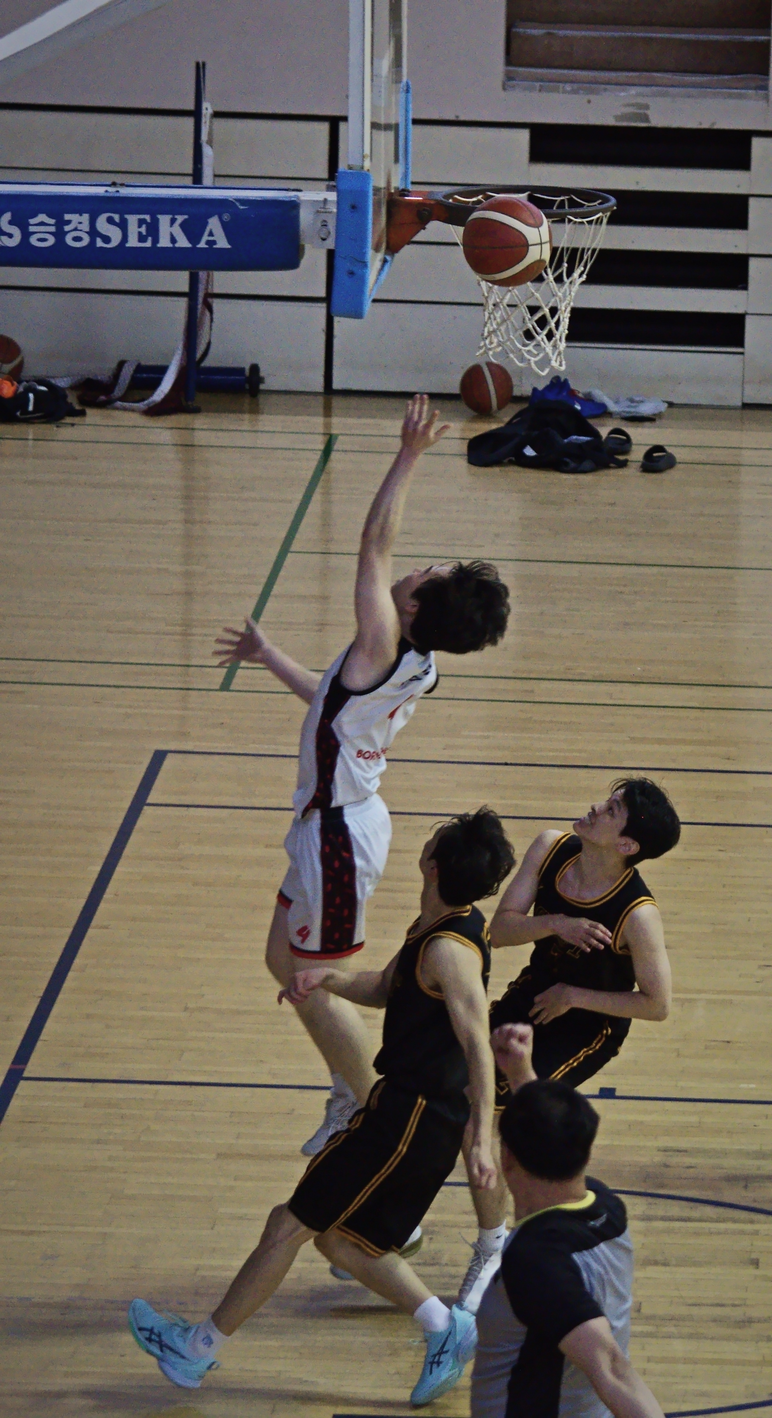
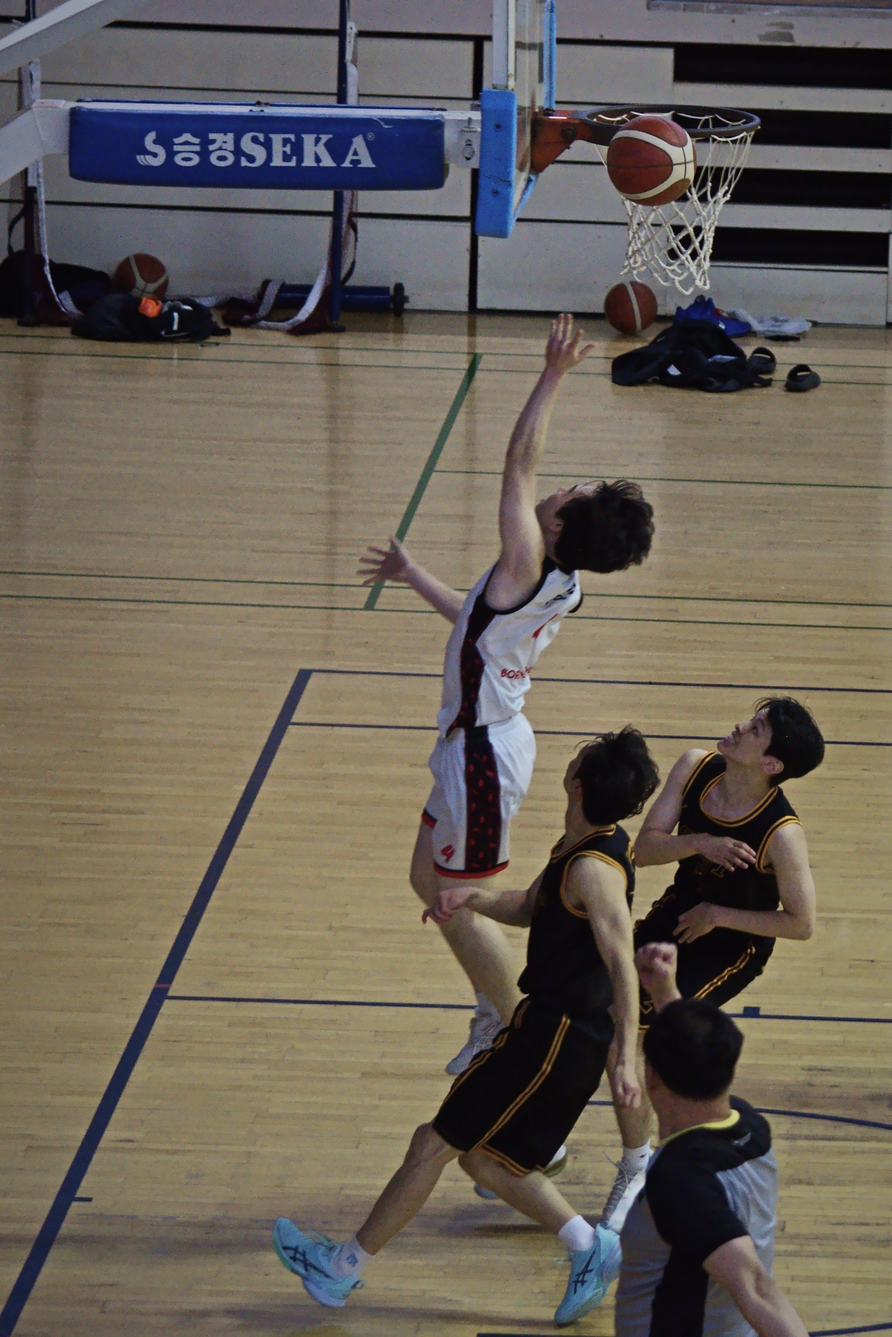
2번(PT1_0021) 재프레이밍 A안 채택: 점프슛 레퍼런스 기반 2:3 세로(가로 9–46%). 4bce7c4 결과와 B안, 레퍼런스 보드·출처 기록
Claude-Session: https://claude.ai/code/session_01UnSELjwGz3pkhwLisvMXDE

diff --git a/docs/disclosure_pipeline.md b/docs/disclosure_pipeline.md
@@ -119,6 +119,7 @@ Claude가 위 밀착 시트 13장(약 254컷)을 보고 보도 가치, 순간성
 - 그 결과로 콘셉트 「차가운 비, 뜨거운 사람들」과 장면별 룩 7종을 정했다(`docs/creative_brief.md`).
 - 크롭은 10% 격자를 얹은 시트(`work/06_crop_grid/`)를 보고 컷별로 정했다(`looks/edits.tsv`). 50컷 중 31컷에 크롭을 적용했다.
 - **크롭 오류와 수정:** AI가 정한 1차 크롭 31개 중 10개에 프레이밍 오류가 있었다. 발·공 잘림(PT2_0246), 다리·팔 잘림, 화면 가장자리 선수의 몸통 절단 같은 문제였다. 기자가 PT2_0246을 지적한 뒤 31개를 전수 점검해 10개를 고쳤다. 점검 시트(`cropaudit_*.jpg`, 빨간 테두리는 1차 크롭)와 수정본(`crop_audit_fixed.jpg`, 초록 테두리)이 같은 폴더에 있고, 수정 사유는 `edits.tsv`의 note 열에 적었다.
+- **2번(PT1_0021) 재프레이밍:** 기자가 최종 10장 후보로 고르며 "점프슛 선수에 집중되게"를 요청했다. 같은 세션에서 두 차례 작업했다. 1차(커밋 4bce7c4)는 가로 15–47%의 좁은 세로 크롭이었는데, 이 작업은 세션이 이어지면서 AI의 맥락에서 빠졌고 2차 작업 중 저장소 이력에서 발견했다. 2차에서는 Wikimedia Commons 점프슛 사진 24장을 레퍼런스로 삼았다. 슈터가 프레임 높이의 60–70%, 손에서 공·림으로 이어지는 축, 발끝까지 포함이라는 기준을 세우고 A안(가로 9–46%, 2:3 세로)을 채택했다. 1차 결과와 B안(팀 동료 41번 포함)은 `work/14_reframe/`에 남겼다.
 
 ---
 
